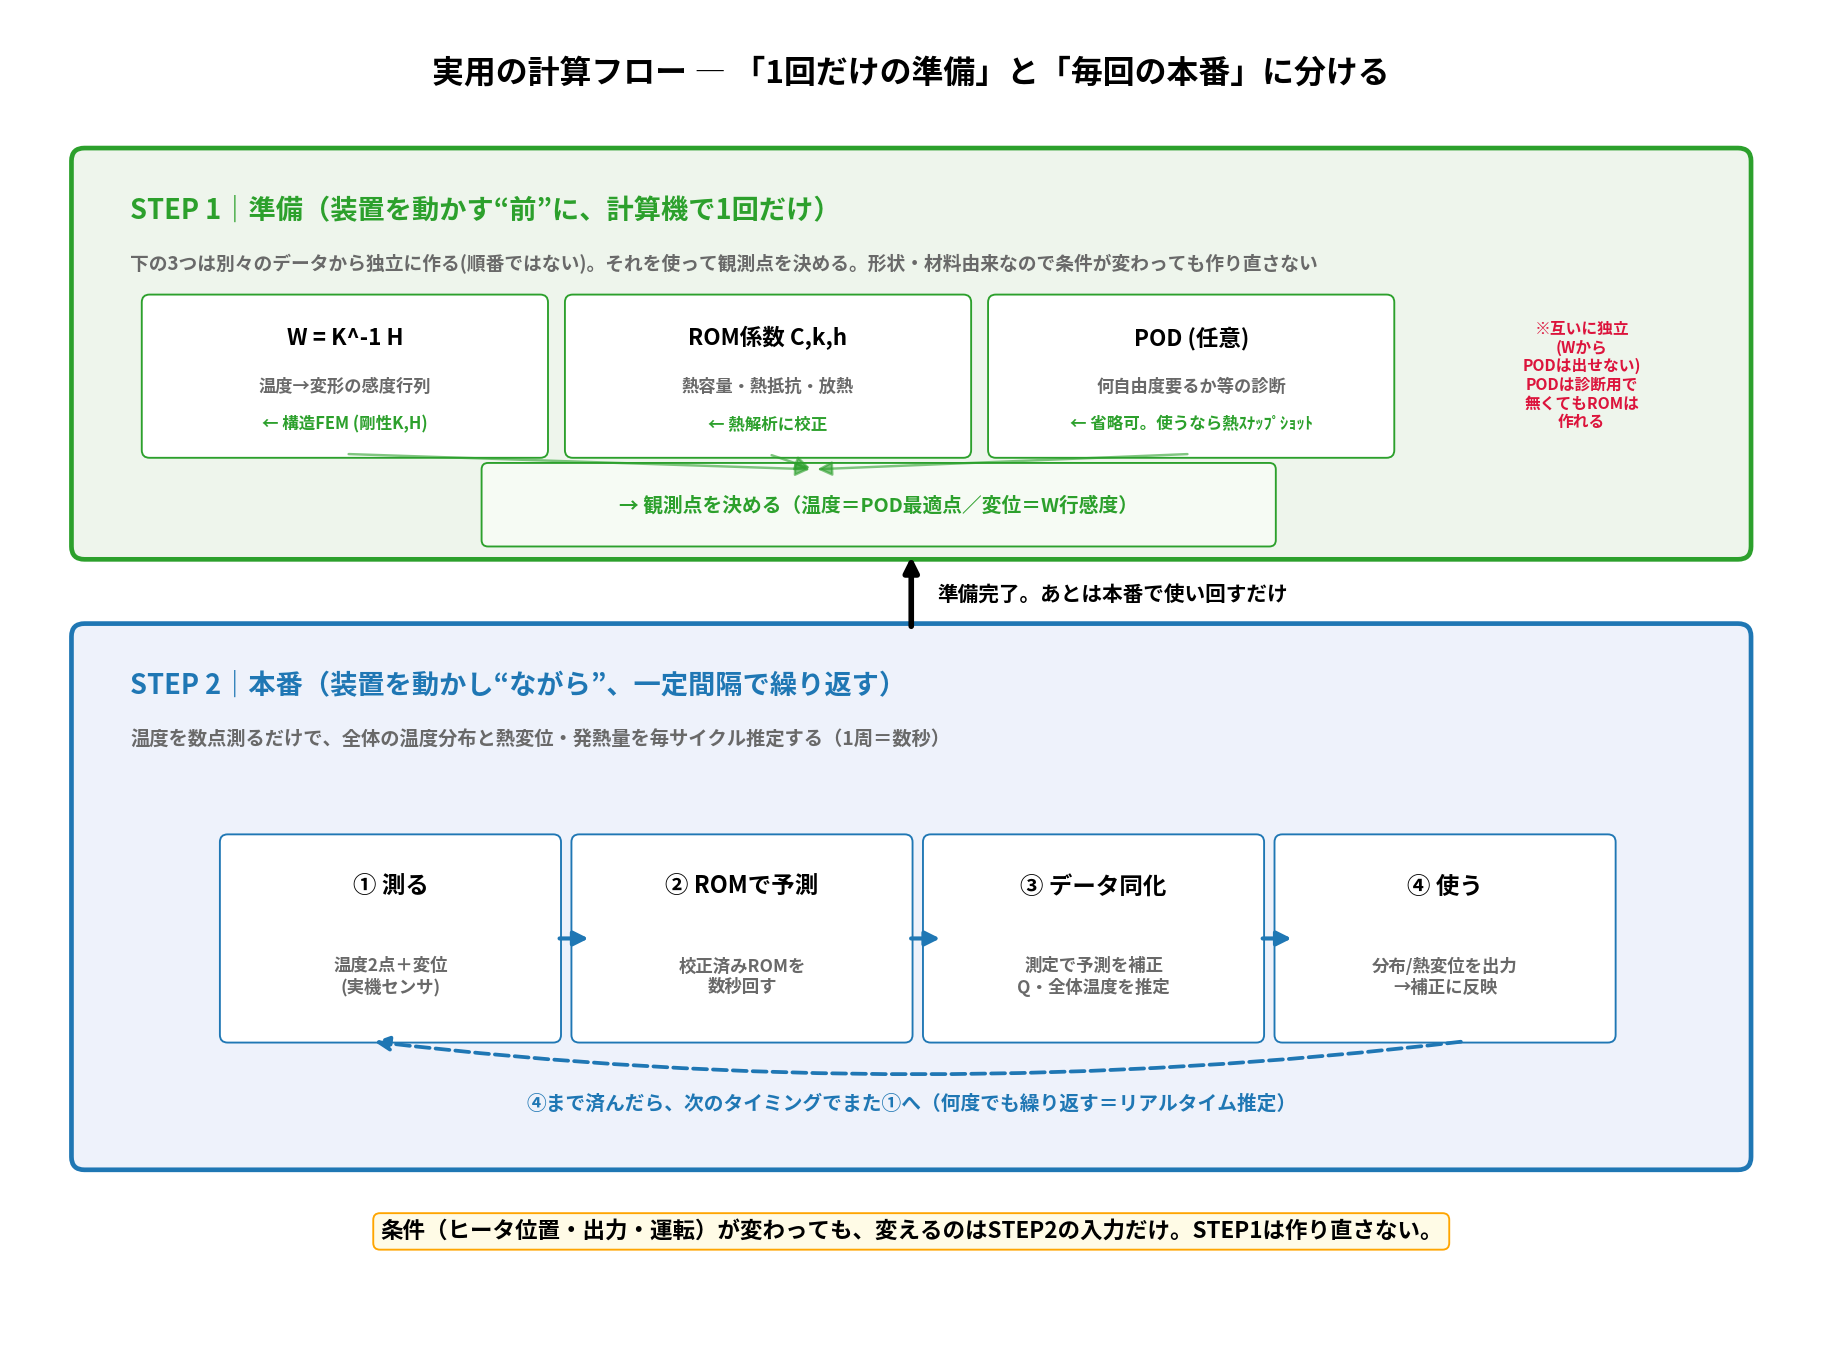
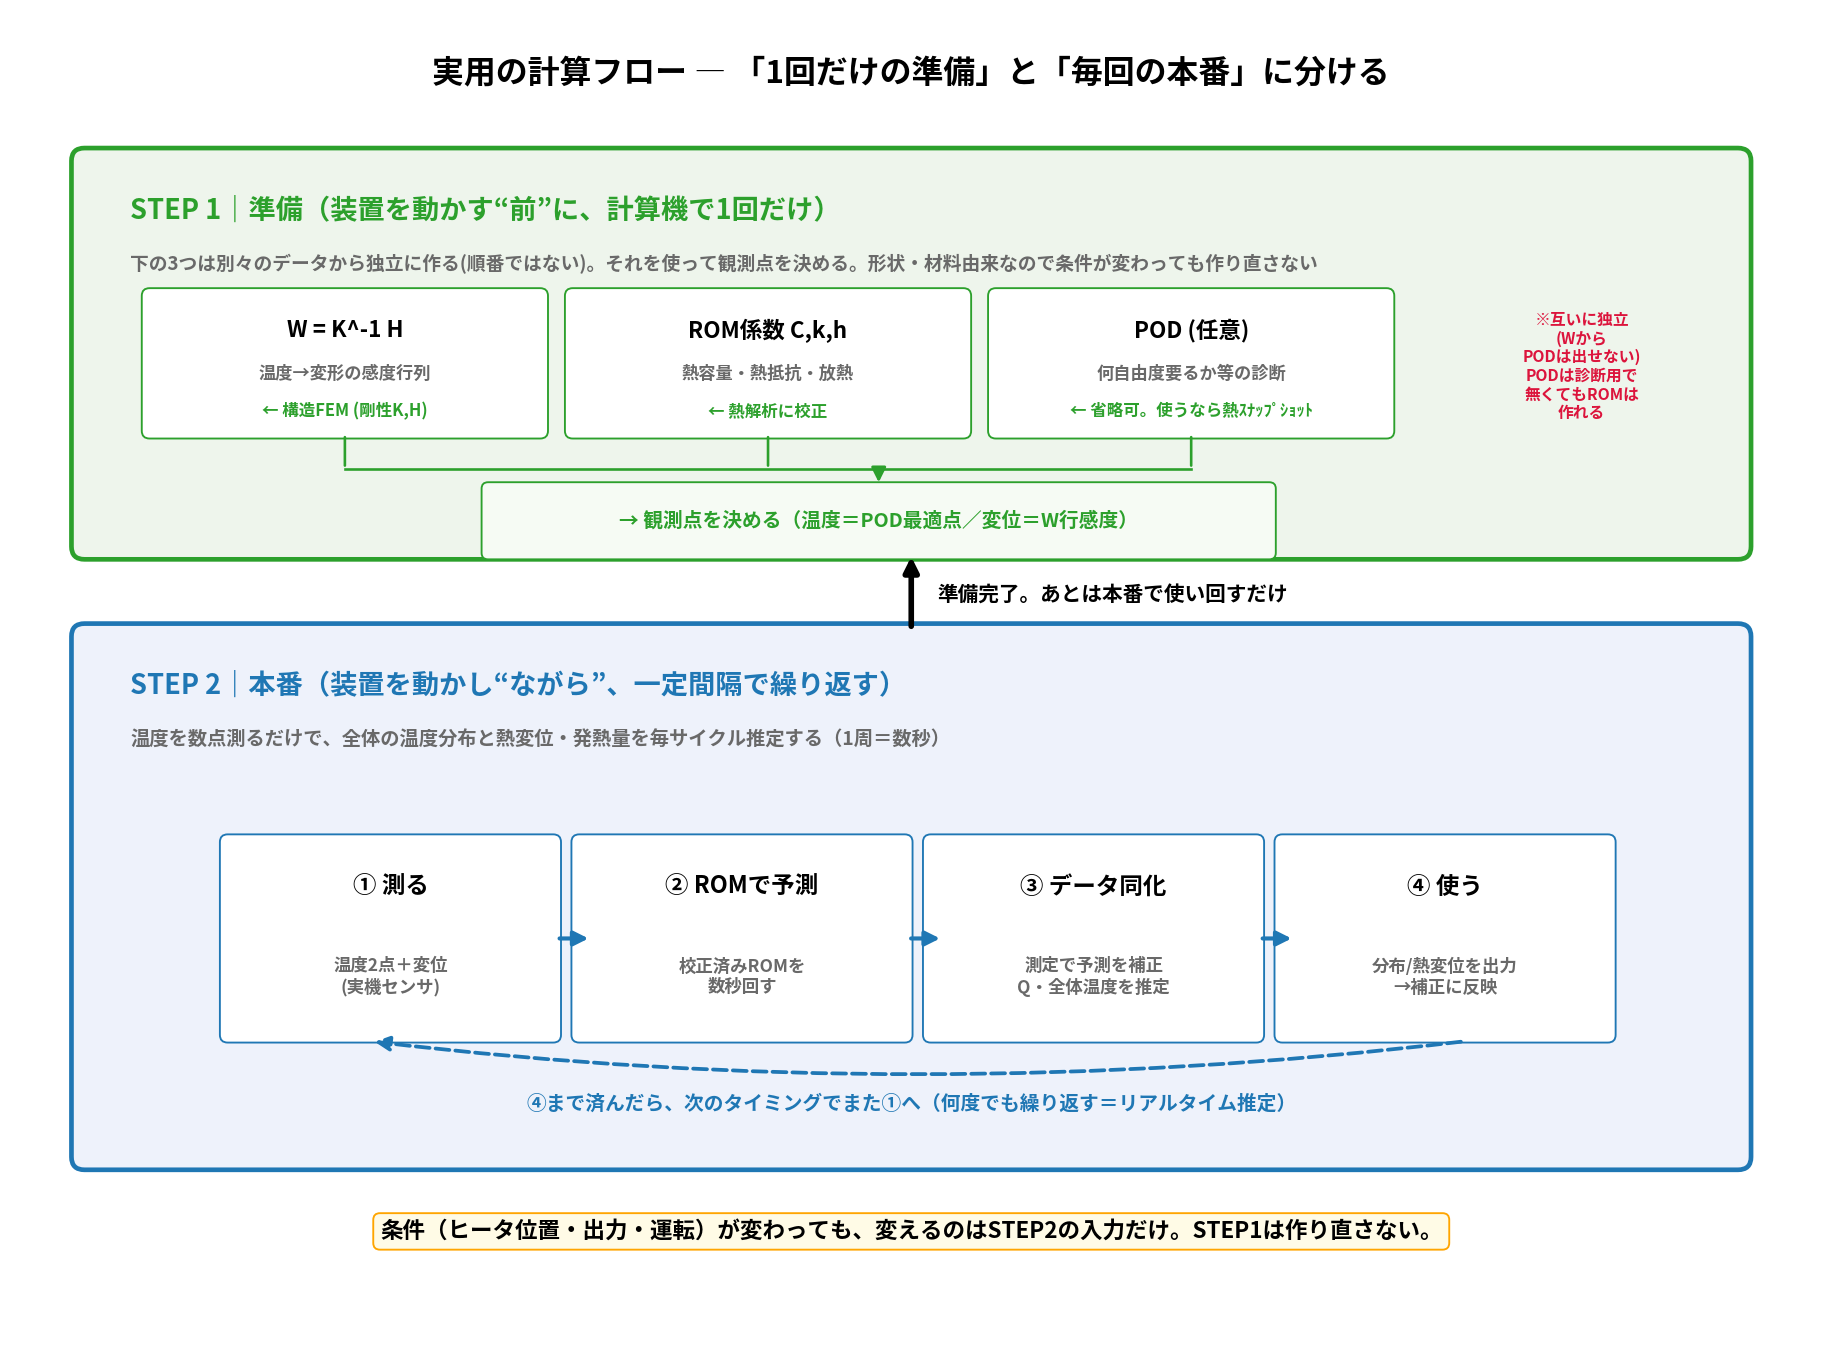
docs14: 実用フロー図の緑矢印の重なりを解消(3箱→バス線→1本で集約)
Claude-Session: https://claude.ai/code/session_019xcHJweBHNkHYnyYJFBYsh

Changed region(s): [[0.0922, 0.2178, 0.7684, 0.4044], [0.8299, 0.2178, 0.9221, 0.3111]]

diff --git a/sample/104_0_openfoam_frontistr_da_enkf/run/make_svd_figs.py b/sample/104_0_openfoam_frontistr_da_enkf/run/make_svd_figs.py
@@ -99,22 +99,28 @@ def fig_workflow():
     prep=[("W = K^-1 H","温度→変形の感度行列","← 構造FEM (剛性K,H)"),
           ("ROM係数 C,k,h","熱容量・熱抵抗・放熱","← 熱解析に校正"),
           ("POD (任意)","何自由度要るか等の診断","← 省略可。使うなら熱ｽﾅｯﾌﾟｼｮｯﾄ")]
+    centers=[]
     x=0.9
     for i,(t,s,src) in enumerate(prep):
-        ax.add_patch(FancyBboxPatch((x,6.75),3.0,1.15,boxstyle="round,pad=0.06",fc="white",ec="tab:green"))
-        ax.text(x+1.5,7.62,t,fontsize=12,weight="bold",ha="center",va="center")
-        ax.text(x+1.5,7.24,s,fontsize=9.2,color="dimgray",ha="center",va="center")
-        ax.text(x+1.5,6.95,src,fontsize=8.8,color="tab:green",ha="center",va="center",style="italic")
+        ax.add_patch(FancyBboxPatch((x,6.9),3.0,1.05,boxstyle="round,pad=0.06",fc="white",ec="tab:green"))
+        ax.text(x+1.5,7.68,t,fontsize=12,weight="bold",ha="center",va="center")
+        ax.text(x+1.5,7.34,s,fontsize=9.2,color="dimgray",ha="center",va="center")
+        ax.text(x+1.5,7.05,src,fontsize=8.8,color="tab:green",ha="center",va="center",style="italic")
+        centers.append(x+1.5)
         x+=3.25
-    ax.text(11.9,7.33,"※互いに独立\n(Wから\nPODは出せない)\nPODは診断用で\n無くてもROMは\n作れる",fontsize=8.4,
+    ax.text(11.9,7.4,"※互いに独立\n(Wから\nPODは出せない)\nPODは診断用で\n無くてもROMは\n作れる",fontsize=8.4,
             color="crimson",ha="center",va="center")
-    # 3つ → 観測点を決める箱へ集約
-    ax.add_patch(FancyBboxPatch((3.5,6.05),6.0,0.55,boxstyle="round,pad=0.05",fc="#f6fbf4",ec="tab:green"))
-    ax.text(6.5,6.32,"→ 観測点を決める（温度＝POD最適点／変位＝W行感度）",fontsize=10.5,
+    # 3つ → 観測点を決める箱へ集約 (各箱の真下から短く降ろし、水平線で束ねる)
+    ybus=6.6
+    for xc in centers:
+        ax.annotate("",xy=(xc,ybus),xytext=(xc,6.88),
+                    arrowprops=dict(arrowstyle="-",color="tab:green",lw=1.4))
+    ax.plot([centers[0],centers[-1]],[ybus,ybus],color="tab:green",lw=1.4)
+    ax.add_patch(FancyBboxPatch((3.5,5.95),6.0,0.5,boxstyle="round,pad=0.05",fc="#f6fbf4",ec="tab:green"))
+    ax.annotate("",xy=(6.5,6.47),xytext=(6.5,ybus),
+                arrowprops=dict(arrowstyle="-|>",color="tab:green",lw=1.6))
+    ax.text(6.5,6.2,"→ 観測点を決める（温度＝POD最適点／変位＝W行感度）",fontsize=10.5,
             weight="bold",ha="center",va="center",color="tab:green")
-    for xc in [2.4,5.65,8.9]:
-        ax.annotate("",xy=(6.0,6.6),xytext=(xc,6.72),
-                    arrowprops=dict(arrowstyle="-|>",color="tab:green",lw=1.3,alpha=0.6))
 
     ax.annotate("",xy=(6.75,5.95),xytext=(6.75,5.35),
                 arrowprops=dict(arrowstyle="-|>",color="k",lw=3))
